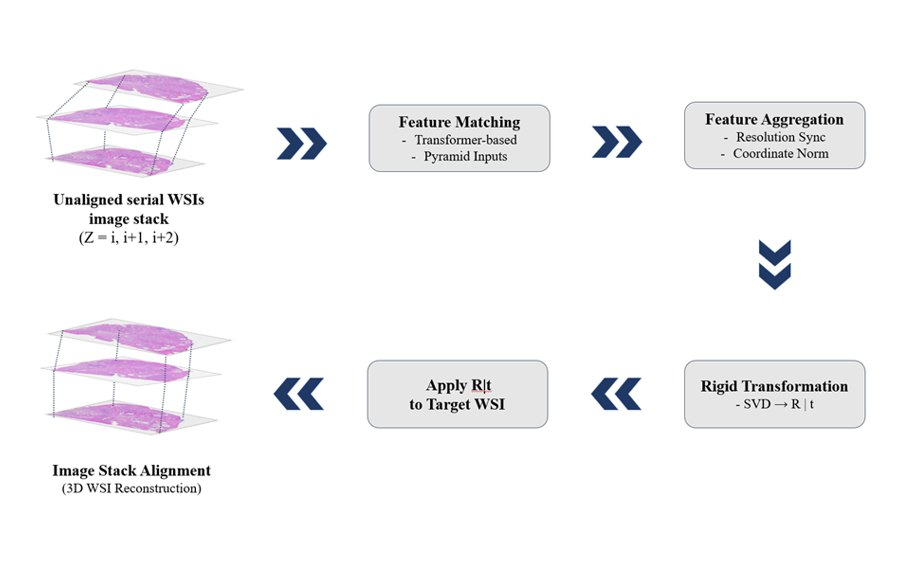
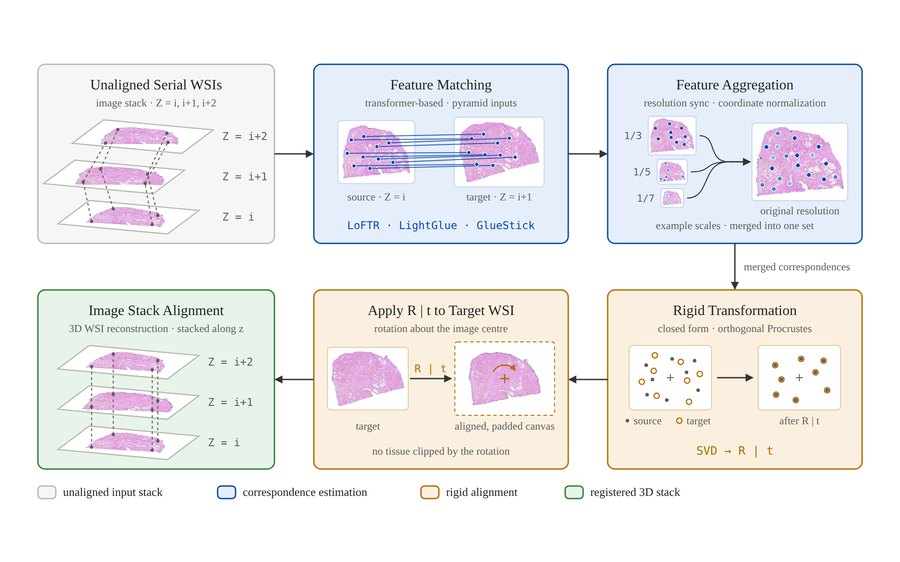
Redraw four figures: elevator schematics, groundwater diagram, WSI pipeline
- Elevator: both Fritzing schematics redrawn in an OrCAD Capture style
  (ATmega328P + ULN2003A stepper, and XC3S200 door servo), connections
  checked against the originals and the repo code
- Groundwater monitoring: control-system block diagram redrawn with the
  4–20 mA loops, A0–A3, OLED and micro-SD logging from the page text
- 3D WSI registration: pipeline overview redrawn with real slide
  thumbnails; also used as the card cover

Claude-Session: https://claude.ai/code/session_01DyUfc2PrZu21zWjTtqWHuS

diff --git a/projects/assets/data.js b/projects/assets/data.js
@@ -1800,8 +1800,8 @@ window.PROJECTS = [
         "src": "img/wsi-3d-registration/01-pipeline-overview.png",
         "thumb": "img/wsi-3d-registration/thumbs/01-pipeline-overview.jpg",
         "caption": {
-          "en": "Overview of the 3D WSI registration pipeline: transformer-based feature matching on pyramid inputs, feature aggregation (resolution sync, coordinate normalization), a rigid transformation by SVD (R | t), and applying R | t to the target WSI to align the stack.",
-          "ko": "3D WSI 정합 파이프라인 개요: pyramid 입력에 대한 Transformer 기반 feature matching, feature aggregation(해상도 동기화, 좌표 정규화), SVD로 구한 rigid 변환(R | t), 그리고 target WSI에 R | t를 적용해 스택을 정렬하는 과정입니다."
+          "en": "Redrawn overview of the 3D WSI registration pipeline. Adjacent slides of an unaligned stack are matched by a transformer-based matcher on pyramid inputs, the correspondences from each scale are rescaled to the original resolution and merged, and a rigid transform R | t solved by SVD is applied to the target slide to align the stack in 3D. The slide thumbnails are taken from the LoFTR result, and the match lines and points are illustrative.",
+          "ko": "3D WSI 정합 파이프라인 개요를 다시 그린 그림입니다. 정렬되지 않은 스택의 인접 슬라이드를 pyramid 입력에서 Transformer 기반 matcher로 매칭하고, 해상도별 대응점을 원본 해상도로 리스케일링해 합친 뒤, SVD로 구한 rigid 변환 R | t를 target 슬라이드에 적용해 스택을 3D로 정렬합니다. 슬라이드 썸네일은 LoFTR 결과 이미지에서 가져왔으며, 매칭선과 점은 이해를 돕기 위한 개념도입니다."
         }
       },
       {
@@ -3778,10 +3778,10 @@ window.PROJECTS = [
         "thumb": "img/groundwater-monitoring/thumbs/01-oled-live-readings.jpg"
       },
       {
-        "src": "img/groundwater-monitoring/02-system-block-diagram.jpg",
+        "src": "img/groundwater-monitoring/02-system-block-diagram.png",
         "caption": {
-          "en": "Control system block diagram: water level → four sensor circuits → Arduino Uno → OLED display and SD card module.",
-          "ko": "제어 시스템 블록도: 수위 → 센서 회로 4채널 → Arduino Uno → OLED 디스플레이 및 SD 카드 모듈."
+          "en": "Control system block diagram (redrawn): four 4–20 mA sensor loops (12 V supply, 250 Ω sense resistor) measure water pressure. The Arduino Uno reads them on A0–A3, converts each reading to voltage, shows the values on the OLED and logs them to a micro-SD card.",
+          "ko": "제어 시스템 블록도를 다시 그린 그림입니다. 4–20mA 센서 루프 4개(12V 전원, 250Ω 감지 저항)가 수압을 측정하고, Arduino Uno가 이를 A0–A3로 읽어 전압으로 변환한 뒤 OLED에 표시하고 micro-SD 카드에 기록합니다."
         },
         "thumb": "img/groundwater-monitoring/thumbs/02-system-block-diagram.jpg"
       },
@@ -4012,18 +4012,18 @@ window.PROJECTS = [
         "thumb": "img/fpga-elevator/thumbs/02-elevator-3d-model.jpg"
       },
       {
-        "src": "img/fpga-elevator/03-atmega328p-stepper-circuit.jpg",
+        "src": "img/fpga-elevator/03-atmega328p-stepper-circuit.png",
         "caption": {
-          "en": "ATmega328P stepper-control schematic with a ULN2003A driver and pull-down floor buttons.",
-          "ko": "ULN2003A 드라이버와 풀다운 층 버튼을 포함한 ATmega328P 스테핑 모터 제어 회로도."
+          "en": "The ATmega328P stepper controller for the elevator, redrawn as an OrCAD Capture-style schematic. Three floor buttons (S1–S3, each with a 10k pull-down) go to D5–D7. D8–D11 drive a ULN2003A, which switches the two coils of a unipolar stepper whose centre taps connect to V+.",
+          "ko": "엘리베이터 ATmega328P 스테퍼 제어 회로를 OrCAD Capture 스타일로 다시 그린 회로도입니다. 층 버튼 3개(S1–S3, 각각 10k 풀다운)는 D5–D7에 연결되고, D8–D11은 ULN2003A를 거쳐 유니폴라 스테퍼 모터의 두 코일을 구동하며, 코일의 센터탭은 V+에 연결됩니다."
         },
         "thumb": "img/fpga-elevator/thumbs/03-atmega328p-stepper-circuit.jpg"
       },
       {
-        "src": "img/fpga-elevator/04-fpga-servo-circuit.jpg",
+        "src": "img/fpga-elevator/04-fpga-servo-circuit.png",
         "caption": {
-          "en": "FPGA (Xilinx XC3S200) servo-control schematic with door open/close switches.",
-          "ko": "문 열림/닫힘 스위치를 포함한 FPGA(Xilinx XC3S200) 서보 제어 회로도."
+          "en": "Redrawn OrCAD-style schematic of the FPGA door-servo controller: a Xilinx XC3S200 (Spartan-3) reads switches S1 and S2 (with pull-downs R2 and R1) and drives servo J1's pulse pin with a PWM signal, all powered from a single battery.",
+          "ko": "FPGA 도어 서보 제어 회로를 OrCAD 스타일로 다시 그린 회로도입니다. Xilinx XC3S200(Spartan-3)이 풀다운 저항 R2, R1이 달린 스위치 S1, S2의 입력을 받아 서보 J1의 pulse 핀으로 PWM 신호를 출력하며, 전원은 배터리 하나로 공급됩니다."
         },
         "thumb": "img/fpga-elevator/thumbs/04-fpga-servo-circuit.jpg"
       },

diff --git a/research/active-learning-pseudo-labeling/index.html b/research/active-learning-pseudo-labeling/index.html
@@ -41,7 +41,7 @@
     </div>
   </footer>
 
-  <script src="../../projects/assets/data.js?v=13cff8e38f"></script>
+  <script src="../../projects/assets/data.js?v=80777409db"></script>
   <script src="../../projects/assets/app.js?v=2a158c0936"></script>
 </body>
 </html>

diff --git a/research/cad-synthetic-data/index.html b/research/cad-synthetic-data/index.html
@@ -41,7 +41,7 @@
     </div>
   </footer>
 
-  <script src="../../projects/assets/data.js?v=13cff8e38f"></script>
+  <script src="../../projects/assets/data.js?v=80777409db"></script>
   <script src="../../projects/assets/app.js?v=2a158c0936"></script>
 </body>
 </html>

diff --git a/research/domain-adaptation-research/index.html b/research/domain-adaptation-research/index.html
@@ -41,7 +41,7 @@
     </div>
   </footer>
 
-  <script src="../../projects/assets/data.js?v=13cff8e38f"></script>
+  <script src="../../projects/assets/data.js?v=80777409db"></script>
   <script src="../../projects/assets/app.js?v=2a158c0936"></script>
 </body>
 </html>

diff --git a/research/wsi-3d-registration/index.html b/research/wsi-3d-registration/index.html
@@ -41,7 +41,7 @@
     </div>
   </footer>
 
-  <script src="../../projects/assets/data.js?v=13cff8e38f"></script>
+  <script src="../../projects/assets/data.js?v=80777409db"></script>
   <script src="../../projects/assets/app.js?v=2a158c0936"></script>
 </body>
 </html>

diff --git a/research/index.html b/research/index.html
@@ -50,7 +50,7 @@
     </div>
   </footer>
 
-  <script src="../projects/assets/data.js?v=13cff8e38f"></script>
+  <script src="../projects/assets/data.js?v=80777409db"></script>
   <script src="../projects/assets/app.js?v=2a158c0936"></script>
 </body>
 </html>

diff --git a/projects/background-dependency/index.html b/projects/background-dependency/index.html
@@ -41,7 +41,7 @@
     </div>
   </footer>
 
-  <script src="../assets/data.js?v=13cff8e38f"></script>
+  <script src="../assets/data.js?v=80777409db"></script>
   <script src="../assets/app.js?v=2a158c0936"></script>
 </body>
 </html>

diff --git a/projects/cansat/index.html b/projects/cansat/index.html
@@ -41,7 +41,7 @@
     </div>
   </footer>
 
-  <script src="../assets/data.js?v=13cff8e38f"></script>
+  <script src="../assets/data.js?v=80777409db"></script>
   <script src="../assets/app.js?v=2a158c0936"></script>
 </body>
 </html>

diff --git a/projects/cnn-mlops/index.html b/projects/cnn-mlops/index.html
@@ -41,7 +41,7 @@
     </div>
   </footer>
 
-  <script src="../assets/data.js?v=13cff8e38f"></script>
+  <script src="../assets/data.js?v=80777409db"></script>
   <script src="../assets/app.js?v=2a158c0936"></script>
 </body>
 </html>

diff --git a/projects/fpga-elevator/index.html b/projects/fpga-elevator/index.html
@@ -41,7 +41,7 @@
     </div>
   </footer>
 
-  <script src="../assets/data.js?v=13cff8e38f"></script>
+  <script src="../assets/data.js?v=80777409db"></script>
   <script src="../assets/app.js?v=2a158c0936"></script>
 </body>
 </html>

diff --git a/projects/groundwater-monitoring/index.html b/projects/groundwater-monitoring/index.html
@@ -41,7 +41,7 @@
     </div>
   </footer>
 
-  <script src="../assets/data.js?v=13cff8e38f"></script>
+  <script src="../assets/data.js?v=80777409db"></script>
   <script src="../assets/app.js?v=2a158c0936"></script>
 </body>
 </html>

diff --git a/projects/kaggle-great-barrier-reef/index.html b/projects/kaggle-great-barrier-reef/index.html
@@ -41,7 +41,7 @@
     </div>
   </footer>
 
-  <script src="../assets/data.js?v=13cff8e38f"></script>
+  <script src="../assets/data.js?v=80777409db"></script>
   <script src="../assets/app.js?v=2a158c0936"></script>
 </body>
 </html>
